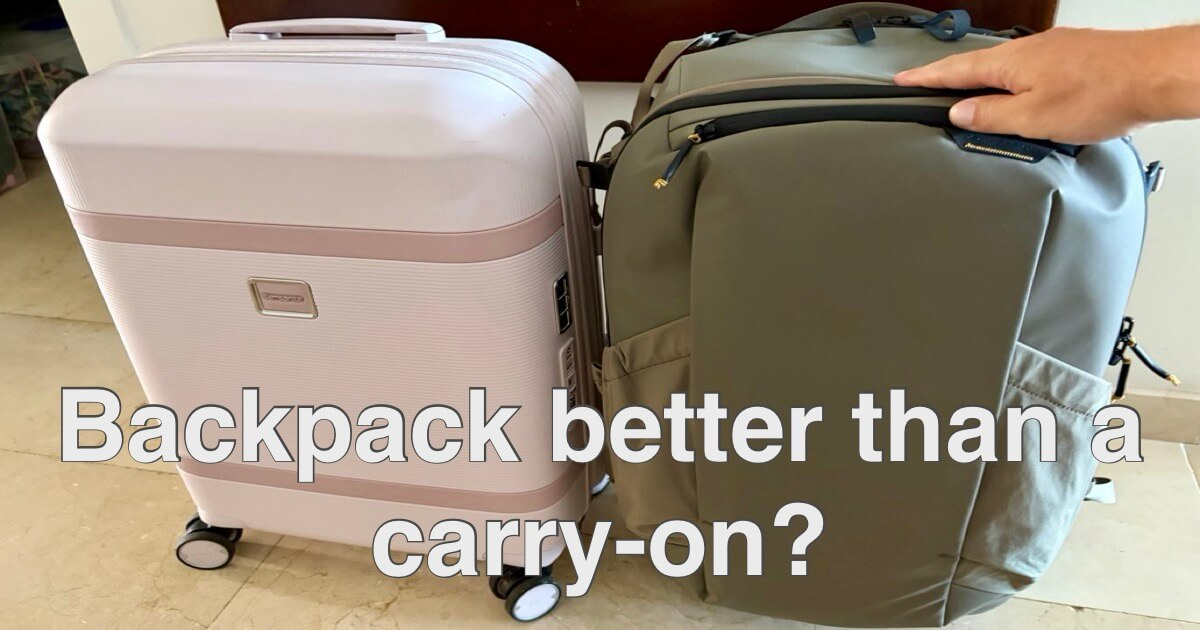
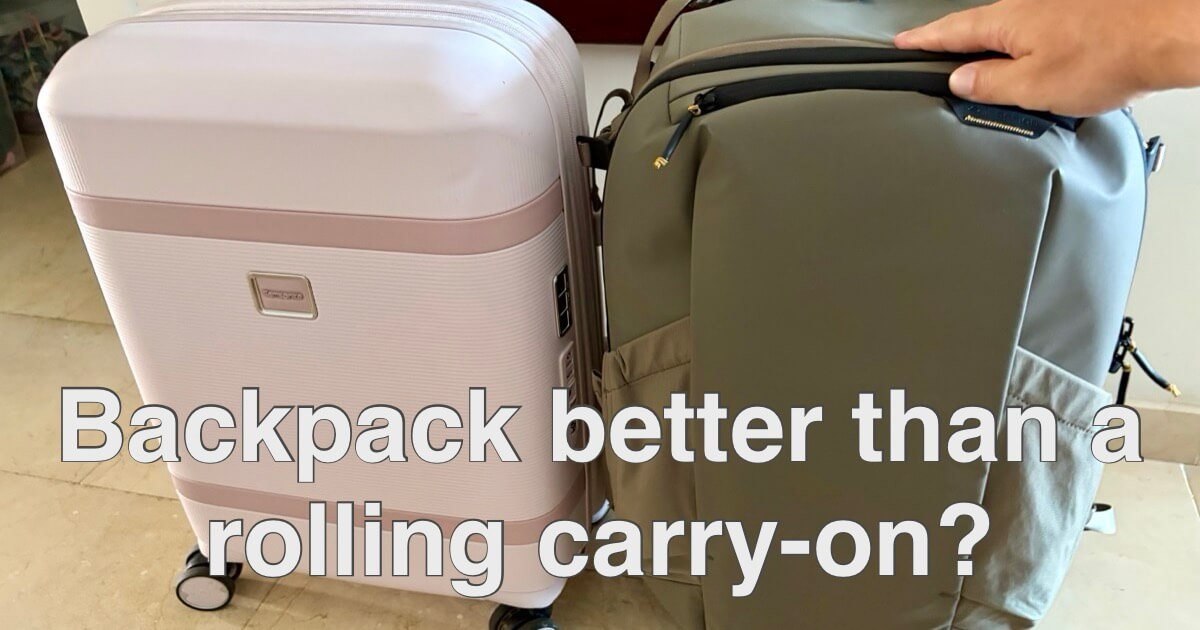
apple eu and nadgryzieni

diff --git a/en/_posts/2026-06-15-apple-eu.md b/en/_posts/2026-06-15-apple-eu.md
@@ -1,0 +1,79 @@
+---
+tags: [appleapple,featured]
+cover: "apple-eu.jpg"
+c: 1
+social: "apple-eu.jpg"
+---
+
+# Is Apple making the European Union a scapegoat with Siri AI?
+
+I used to fly all the way to California for Apple's Developer conference, called WWDC. [I’ve been an Apple fan](/apple) for nearly two decades, I’m still [iPadOnly](/ipadonly), and I’m still a developer on their platforms with [Nozbe][n]. I even have a selfie with Craig Federighi taken at WWDC'19. However I keep being increasingly disappointed in Apple as to how they seem NOT to love us here in Europe. This week Apple announced the new “Siri AI” feature which when it ships, it will only be available in English and won’t be offered in the European Union. [They wrote a whole press release about it](https://www.apple.com/newsroom/2026/06/due-to-dma-siri-ai-delayed-in-eu-for-ios-27-and-ipados-27/){:target=’_blank’}, blaming EU’s DMA legislation (Digital Markets Act). What they don’t tell you are the real reasons behind this decision. IMHO it comes down to three words: **greed, control and excuses**.
+
+<!--More-->
+
+![{{ page.title }}](/img/{{ page.cover }})
+
+* TOC
+{:toc}
+
+## Greed — “we want all the money… or else!”
+
+Apple is fighting everyone — the DOJ in the US, regulators in Japan, the EU, and many new places — about its App Store dominance.
+
+And to be fair, they earned that dominance. The iPhone is the most popular smartphone on the planet. Together with Android, they’ve built a duopoly where two companies hold the keys to two mobile platforms. That’s exactly why the EU treats them as a “gatekeeper.”
+
+I feel this firsthand. To get [Nozbe][n] on the App Store, I must use Apple’s IAP (In App Purchase) payment system and I’m not allowed to link to [our own pricing page](https://nozbe.com/pricing/?c=michaelteam). All I want is to offer *both* — Apple’s system and an alternative — and let my customers choose. That way Apple’s payment system would have to [compete](/news-compete/) instead of being forced on everyone.
+
+Instead of loosening their grip while still collecting commissions from most customers, Apple wants **all the money from all iPhone users.** That’s greed.
+
+In the EU they've been practicing [malicious compliance](https://en.wikipedia.org/wiki/Malicious_compliance) by introducing additional fees like [CTF - Core Technology Fee](https://developer.apple.com/support/core-technology-fee/) and very [convoluted rules to offer alternate payment methods](https://developer.apple.com/contact/request/download/external/StoreKit-External-Purchase-Link-(EU)-Entitlement-Addendum.pdf) which essentially keeps us, developers, forced to maintain the status quo.
+
+So what does this have to do with Siri AI? By withholding it, Apple keeps a bargaining chip in its fight with the EU over the App Store — and tries to turn EU customers against our own governing bodies. Good luck with that.
+
+## Control — “we know what's best for you”
+
+The DMA wants Apple to allow competing *app stores*, let developers offer direct downloads, and open core iPhone features to third parties. I don’t find these requirements unreasonable. They’d make the iPhone I own actually feel like *mine*.
+
+The same logic applies to Siri AI. If only Apple’s model can access the data on my phone, they’re effectively shutting out OpenAI, Anthropic, and every AI model that hasn’t been invented yet.
+
+Apple frames this as “protecting user privacy” — but without letting me, the user, decide. Sure, most people won’t want to give another AI access to their data. But some of us would. Even if the new Siri AI is good — *and given Siri’s decade of disappointing us, that’s a big “if”* — maybe I’d like to connect a smarter model to be more productive. They don't want to let me, the iPhone owner, to do that!
+
+I genuinely used to applaud Apple’s stance on privacy. That’s what makes this hard to watch: “privacy” has quietly become the justification for control. And once a principle becomes a convenient excuse, it stops being a principle.
+
+## Excuses — “we can’t ship it, so we’ll buy ourselves time”
+
+Here’s the part Apple least wants to talk about.
+
+This isn’t the first time Apple announced *Siri AI*. They made a near-identical announcement back in 2024. They never shipped a smarter Siri — it got a nice new animation and stayed just as clueless.
+
+They’ve also never meaningfully expanded Siri’s language support. I’m Polish, and in Poland you can’t even buy a HomePod, because Siri doesn’t speak Polish. A fast-growing country of 40M+ people is treated as a rounding error. To quote the late Michael Jackson: *“All I wanna say is, they don’t really care about us.”* And that stings — because they used to make me feel like they did.
+
+Now here’s the kicker. Siri AI is powered by Google’s Gemini. Gemini speaks Polish. So do ChatGPT and Claude — and dozens of other languages. Yet Siri AI will launch in September in English only.
+
+So Apple — the $4T juggernaut — can’t organize itself to ship this faster, in more languages, even though the underlying Gemini model already supports them all.
+
+What do you do when you can’t deliver? You buy yourself time, and you find someone to blame. You search for excuses. And the EU is a convenient target, because it’s a union of countries that speak [24 official languages](https://en.wikipedia.org/wiki/Languages_of_the_European_Union). Far easier to hide a language-rollout problem behind a regulatory villain than to admit you’re behind.
+
+## Can Apple do better? I sure hope so!
+
+Remember that Federighi selfie? Here’s the same guy, with a straight face (emphasis mine):
+
+> “Our hope is to eventually bring Siri AI to the EU, and we will continue to engage with EU regulators on a path forward. However, **their refusal to engage constructively on solutions** that preserve privacy and security means we do not currently have a timeline for Siri AI’s availability on iOS and iPadOS in the EU.”
+
+The EU refused, you see. Apple refused nothing — except to let go of any of the total control it holds. Yeah… no.
+
+![{{ page.title }} first row at stage at WWDC 2019](/img/apple-eu-stage.jpg)
+
+I want to be clear: I’m writing this *because* I’m still a fan. I want Apple to fix this. I want the company I fell in love with back — the one that made me dream of [owning a Mac](/laptop). But the leadership steering it today feels [greedy and controlling](/cook), and spinning our laws to cover their own delays is beneath the company [I used to know](/cooked).
+
+Prove me wrong, Apple. Stop blaming the EU.
+
+I know you can do better than this.
+
+## Bonus: Siri's history by [Joanna Stern](https://thenewthings.com){:target='_blank'}
+
+{% include videos.html id="Y8NUvWzIiw4" name="15 Years of Siri Promises" %}
+
+
+[n]: https://michael.gratis/nozbe
+[np]: https://michael.gratis/nozbepersonal

diff --git a/pl/_posts/2026-06-12-nadgryzieni-592.md b/pl/_posts/2026-06-12-nadgryzieni-592.md
@@ -1,0 +1,36 @@
+---
+tags: [nadgryzieni]
+vid: "m83H_iSHJ-c"
+podcast: 354643597
+---
+
+# Nadgryzieni #592: Kto kłamie? Apple czy UE? Wrażenia prosto z Apple Park po WWDC 2026
+
+W tym odcinku gościem specjalnym jest Dominik Łada, z którym rozmawiamy o kulisach tegorocznej konferencji WWDC 2026. Główna część dyskusji kręci się wokół zaprezentowanych nowości, ze szczególnym uwzględnieniem możliwości nowej Siri AI oraz zawiłych relacji Apple z Komisją Europejską, co może znacząco wpłynąć na dostępność tych technologii w naszym regionie. Po potężnej dawce analiz technologicznych audycję płynnie zamyka bogaty kącik filmowo-serialowy, w którym: Looper (Looper – Pętla czasu), Your Friends & Neighbors (Znajomi i sąsiedzi) - sezon 2 (jeszcze nie obejrzałem), The Boroughs, In the Grey (Zawodowcy), Office Romance (Biurowy romans), Mortal Kombat II, The Witcher (Wiedźmin) oraz The Other Bennet Sister (Ta inna siostra Bennet).
+
+{% include video.html id=page.vid %}
+
+<!--More-->
+
+## Posłuchaj podcast w wersji audio:
+
+<audio controls>
+<source src="https://media.blubrry.com/nadgryzieni/imagazine.stronazen.pl/nadgryzieni/Nadgryzieni-Odcinek-592.mp3" type="audio/mpeg">
+</audio>
+
+
+
+[Notatki do odcinka na stronie iMagazine](https://imagazine.pl/2026/06/12/592-kto-klamie-apple-czy-ue-wrazenia-prosto-z-apple-park-po-wwdc-2026-nadgryzieni/)
+
+## 🍎 Subskrybuj "Nadgryzionych"
+
+🟣 [Apple Podcasts](https://podcasts.apple.com/pl/podcast/nadgryzieni-rozmowy-nie-tylko-o-tech/id354643597)\\
+🔵 [Spotify](https://open.spotify.com/show/5KtWAdPjRr6X0oXHV0FqVf)\\
+🟡 [RSS](https://retrorocketnetwork.pl/category/nadgryzieni-rss/feed/)\\
+🟠 [Overcast](https://overcast.fm/itunes354643597/nadgryzieni-rozmowy-nie-tylko-o-apple)\\
+🔴 [YouTube na kanale iMagazine](https://www.youtube.com/@imagazinepl/podcasts)
+
+<!--podcast: 354643597-->
+
+[n]: https://michael.gratis/nozbe_pl
+[np]: https://michael.gratis/nozbepersonal_pl

diff --git a/pl/_posts/2025-11-07-nadgryzieni-559.md b/pl/_posts/2025-11-07-nadgryzieni-559.md
@@ -1,5 +1,5 @@
 ---
-tags: [nadgryzieni]
+tags: [nadgryzieni,gosc]
 vid: "T03d1355mjA"
 podcast: 354643597
 ---
@@ -18,9 +18,23 @@ Ten specjalny odcinek to wywiad ze mną, z okazji 18-lecia firmy na rynku. Opowi
 <source src="https://media.blubrry.com/nadgryzieni/imagazine.stronazen.pl/nadgryzieni/Nadgryzieni-Odcinek-559-Special.mp3" type="audio/mpeg">
 </audio>
 
+## Linki z odcinka:
+
+  * [Nozbe – narzędzie do zarządzania projektami i współpracy w zespole](https://nozbe.com/)
+  * [Co mówią o Nozbe użytkownicy?](https://nozbe.com/pl/users)
+  * [Jak działa Nozbe – jak zacząć w 5 minut?](https://nozbe.com/pl/guide)
+  * [Piąteczki w Nozbe](https://nozbe.com/pl/friday)
+  * [W TVP2 Pytanie na Śniadanie o Piąteczkach](https://michael.team/pl/tvp2/)
+  * [Dlaczego zaufanie jest lepsze w pracy?](https://nozbe.com/pl/trust)
+  * [Moja biznesowa droga – wywiad z Maćkiem Budzichem z roku 2012](https://michael.team/pl/mediafun-krakow/)
+  * [Mój wyjazd do Japonii 10 lat później (po angielsku)](https://michael.team/japan/)
+  * [Moja prelekcja o pracy zdalnej na InfoShare (po angielsku)](https://michael.team/infoshare/)
+  * [Historia jak zdobyłem nagrodę Auler w 2009 (po angielsku)](https://michael.team/aulery/)
+  * [Prywatny blog po angielsku (Michael.Team)](https://michael.team/)
+  * [Prywatny blog po polsku](https://michael.team/pl)
 
 
-[Notatki do odcinka na stronie iMagazine]()
+[Notatki do odcinka na stronie iMagazine](https://imagazine.pl/2025/11/07/559-special-jak-polak-zbudowal-globalna-firme-bez-biura-wywiad-z-ceo-nozbe-nadgryzieni/)
 
 ## 🍎 Subskrybuj "Nadgryzionych"
 

diff --git a/en/cuts.md b/en/cuts.md
@@ -44,7 +44,7 @@ I regularly update and post about my [Shortcuts](/shortcuts) but on this page I'
 - [Poster](https://www.icloud.com/shortcuts/bf42be252fd6497e89a7f39fbdf66116) - to post Cleaneup'ed text to Mastodon and to blog post and to Nozbe using unpublished Nozbe actions - 3.2.26
 - [Poster Text](https://www.icloud.com/shortcuts/4df2afee12c244fdbf4527f001a3ef16) - simplified poster - 3.2.26
 - [To-do List](https://www.icloud.com/shortcuts/31d450b9c77145d8a610982a5d44d94c) - sends a list of to-do items to my [vibe-coded](/list) javascript-based [to do list app](/todo) - 04.09.25
-- [JPG/PNG Images](https://www.icloud.com/shortcuts/f921dd00f45945908f89c4063cd9818d) - my internal way to compress images using Tinify and putting the stuff in my Repos and posting on Mastodon - version 1.5 - 02.03.26
+- [JPG/PNG Images](https://www.icloud.com/shortcuts/bcf6da55cc1f4816a6730bb0d87fd70e) - my internal way to compress images using Tinify and putting the stuff in my Repos and posting on Mastodon - version 1.6 - 13.06.26
 - [PNG/JPG Images](https://www.icloud.com/shortcuts/49ee1aa8af6c4a27a63df4cbe3fa58cf) - version without Tinify, just with 0.5 JPG compression, when Tinify failed me - 09.09.24
 - [Compress Image with Tinify](https://www.icloud.com/shortcuts/98eb76b7bbbc4c5996d39bc567f3b654) - official shortcut - 10.24
 - [Michael.team post](https://www.icloud.com/shortcuts/272e55e44df648c39e10176e68c58371) - conversion of text from raw text to a blog post fixed for iOS26 - 15.09.25